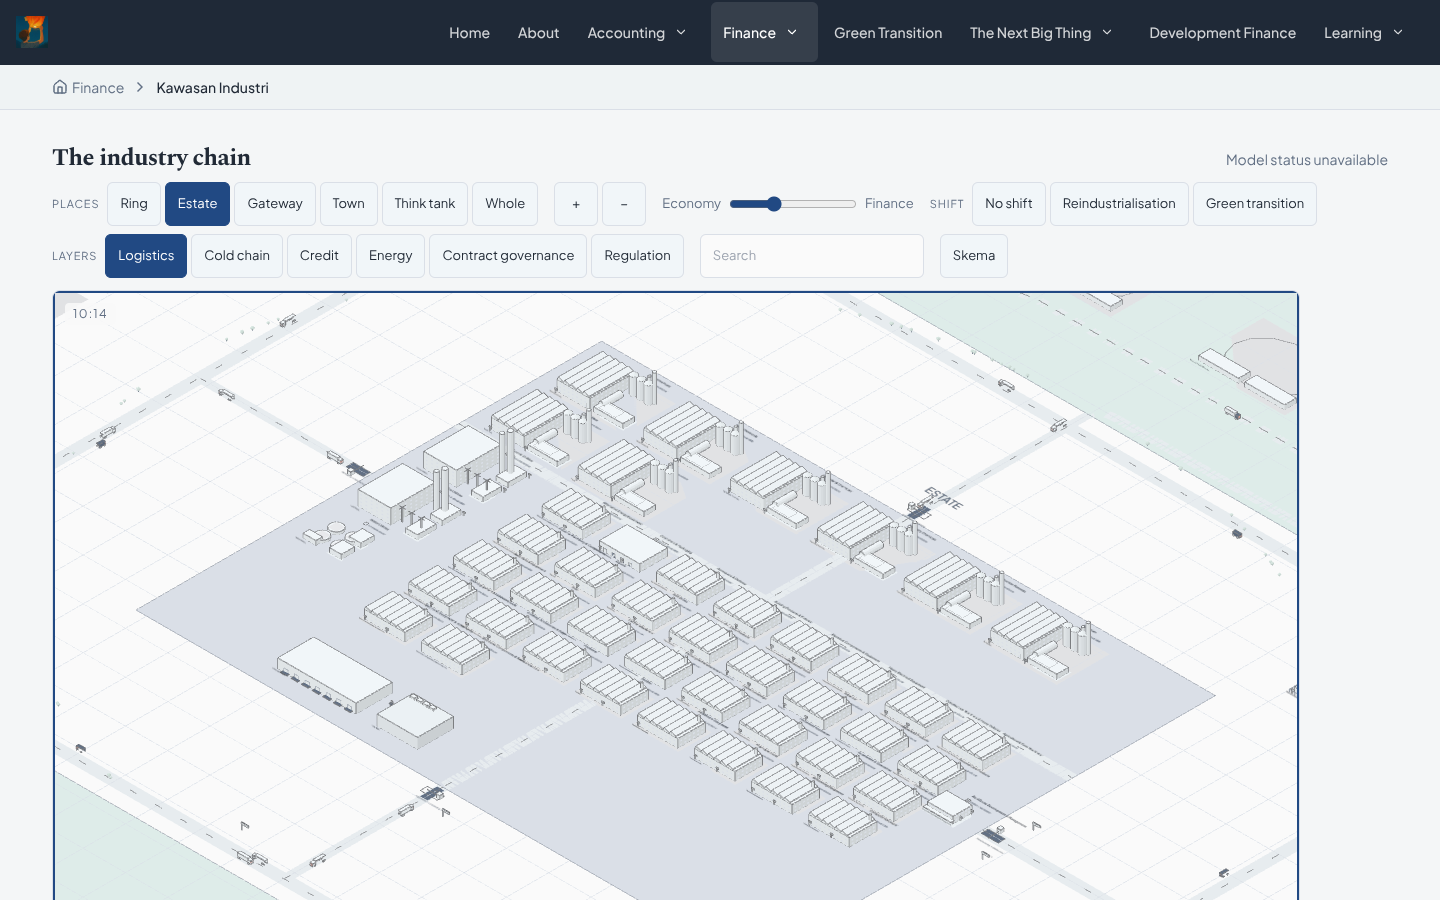
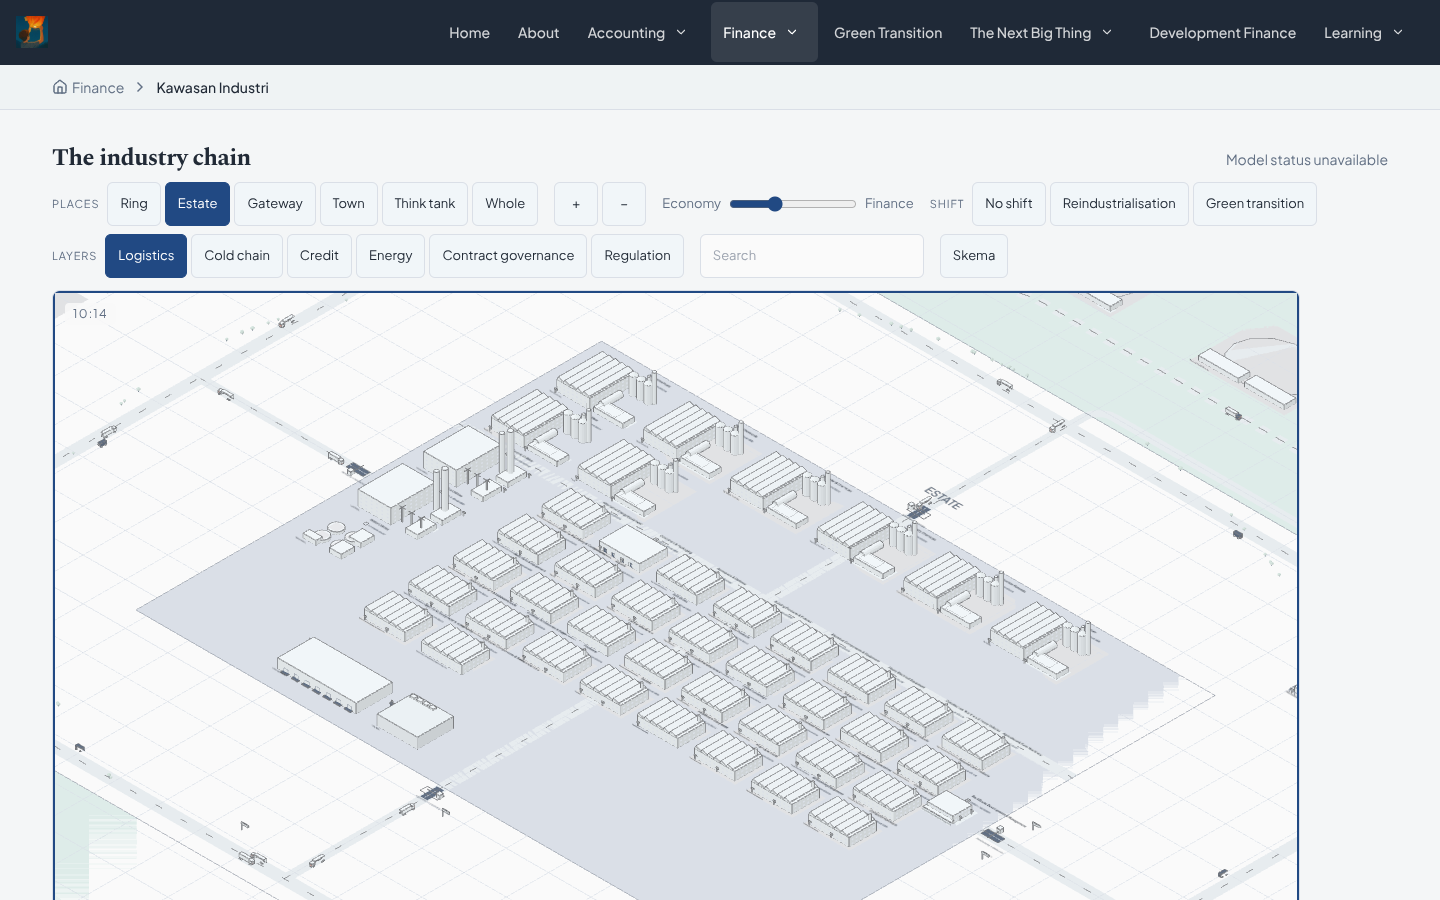
world: the probe counts only rendered movers, by kind
Two review findings on scripts/world/probe.mjs. A hidden mover's anchor
still projects, so walkers hidden by the LOD and reefers and coins hidden
by their layers were counted as visible and moving; the debug API gains
visible(id), effective render visibility up the parent chain, and the
probe filters on it. One mixed set of walkers, coins, forklifts and trucks
fed both the count and the figure labelled truck speed; the probe now
reports vehicles, walkers and coins separately and takes the truck speed
from TRUCK-* only.

The baseline is re-run: at the home view 47 of 47 rendered vehicles are
on screen and moving, at 2.1 px/s and 5 px long. The plan, the PRD and the
prompt now state the liveliness criterion as size and speed, not count,
since the count already passes.

Claude-Session: https://claude.ai/code/session_015n1SoBQCwkT1bvc7rctzRJ

diff --git a/src/world/engine/create.ts b/src/world/engine/create.ts
@@ -43,6 +43,8 @@ interface DebugApi {
   distance(): number;
   /** The camera's zoom, in screen pixels per metre (scripts/world/probe.mjs reads it). */
   zoom(): number;
+  /** Whether an entity's first group is rendered: it and every ancestor visible (the LOD and the layers hide whole groups). */
+  visible(id: string): boolean;
   /** One frame of the view by hand (the camera easing, the LOD switch, the peeks), dt in seconds; tests drive it where no animation frame runs. */
   tick(dt: number): void;
   statuses(): Record<string, ModelStatus>;
@@ -206,6 +208,7 @@ export function createWorld(container: HTMLElement, options: WorldOptions): Worl
       drawCalls: () => view.drawCalls(),
       distance: () => view.distanceOf(),
       zoom: () => view.camera.zoom,
+      visible: (id) => { const e = find(id); const g = e?.groups[0]; if (!g) return false; for (let o: THREE.Object3D | null = g; o; o = o.parent) if (!o.visible) return false; return true; },
       tick: (dt) => tick(last + dt * 1000),
       statuses: () => Object.fromEntries(statuses),
       chain: () => chain.codes(),

diff --git a/docs/world/v2/PLAN.md b/docs/world/v2/PLAN.md
@@ -37,14 +37,17 @@ Measured on 9 October 2026 with `scripts/world/probe.mjs` (added by this plan) a
 build of `main` at `edc944a`, Chromium 1440 × 900, the stage 1,246 × 700 px, SwiftShader. Frames
 and the JSON are in `docs/world/frames/v1-probe/`.
 
-| view | px per metre | a 40 m block on screen | movers moving / visible | truck speed on screen | draw calls | click at INTP's anchor selects |
+| view | px per metre | a 40 m block on screen | vehicles rendered, on screen and moving | truck speed on screen | draw calls | click at INTP's anchor selects |
 |---|---|---|---|---|---|---|
-| home (`whole`) | 0.42 | 24 px | 68 / 122 | 2.3 px/s | 317 | the building B121 |
-| middle (`estate`) | 1.41 | 79 px | 32 / 32 | 25.3 px/s | 658 | the building B121 |
-| near (distance 1) | 15.98 | 904 px | 0 / 0 | 0 | 95 | the building B121 |
+| home (`whole`) | 0.42 | 24 px | 47 of 47 | 2.1 px/s | 317 | the building B121 |
+| middle (`estate`) | 1.39 | 78 px | 23 of 23 | 34 px/s | 648 | the building B121 |
+| near (distance 1) | 16.25 | 919 px | 0 of 0 | 0 | 95 | the building B121 |
 
-(SwiftShader renders at a few frames per second, so px/s understates a real GPU by roughly 3×;
-the ratio between views holds.)
+(Only rendered movers count: the LOD hides the walkers at the home view and the layers hide the
+reefers and coins. SwiftShader renders at a few frames per second, so px/s understates a real GPU
+by roughly 3×; the ratio between views holds. At the home view 47 vehicles are on screen, so the
+failure is not their number but their size and speed: a truck is 5 px long and moves two pixels a
+second.)
 
 ### 1.1 Root causes
 
@@ -106,7 +109,7 @@ v2 is alive when all of these hold on a laptop at the home view:
 | # | property | measure |
 |---|---|---|
 | L1 | Buildings read as buildings | a 40 m block is ≥ 60 px wide; silhouettes differ by family |
-| L2 | Motion is visible | ≥ 40 vehicles on screen moving at ≥ 8 px/s on a real GPU (≥ 3 px/s on the probe's SwiftShader) |
+| L2 | Motion is visible | ≥ 40 goods vehicles on screen, each ≥ 18 px long, moving at ≥ 8 px/s on a real GPU (≥ 3 px/s on the probe's SwiftShader) |
 | L3 | Motion has meaning | every goods vehicle has an origin building, a destination building and a load named after the link; it stops at the gate's weighbridge and at the destination's bay |
 | L4 | The chain can be seen | selecting any building animates its supplier and customer flows; dashes travel in the direction of the goods |
 | L5 | Everything points | hovering any company, building, vehicle, gate or fixture shows a pointer and a label; clicking it opens its card, at every distance |
@@ -180,7 +183,7 @@ for "lanjut").
 | gate | deliverable | exit criteria (measured) |
 |---|---|---|
 | **A. Scale, pointing, companies** | compacted layout; hero home view; ground and shading; hover label and pointer; company lots with signs; cards v2 for buildings and companies; poster re-rendered | probe home: ≥ 1.2 px/m, block ≥ 60 px; click at a company anchor selects the company at home, district and street; hover shows pointer + label within 150 ms; `Whole` ≥ 0.75 px/m; draw calls within budget; flag-off build identical |
-| **B. Flows** | road graph and routing; bays and driveways; the flows system (goods, returns, raw export by ship, rail shuttle, coins); goods classes and vehicle kinds; link register complete; vehicle cards | probe home: ≥ 40 vehicles on screen moving; every vehicle has origin, destination and load; no isolated building; a truck stops at a weighbridge; routes never cross lots; 300 live vehicles ≤ 1,300 draw calls at the district view |
+| **B. Flows** | road graph and routing; bays and driveways; the flows system (goods, returns, raw export by ship, rail shuttle, coins); goods classes and vehicle kinds; link register complete; vehicle cards | probe home: ≥ 40 vehicles on screen moving at ≥ 3 px/s, each ≥ 18 px; every vehicle has origin, destination and load; no isolated building; a truck stops at a weighbridge; routes never cross lots; 300 live vehicles ≤ 1,300 draw calls at the district view |
 | **C. Activity and night** | per-family activity; day cycle for all; lamps; published emphasis | every family shows motion at the district view (listed in the gate note with a frame each); night frame at 20:00 with every block lit; draw calls within budget |
 | **D. Chain, stories, follow** | flow-based chain highlight; story table and buttons; Follow mode; search over stories; phone layout for the strip | selecting any building animates its links; six stories light end to end; Follow completes a story in ≤ 90 s with a card at each stop; `F` follows a vehicle; Esc exits |
 | **E. Quality** | tests (unit, engine, browser), Lighthouse before/after, a11y pass, docs (report v2, decision log), NOTICE check | 1,062 unit tests + new ≥ 40; world browser suite ≥ 12 cases green; Lighthouse mobile LCP no worse than `main`; zero console errors after 600 simulated seconds; keyboard path covers companies, vehicles and stories |

diff --git a/docs/world/v2/PRD-kawasan-v2.md b/docs/world/v2/PRD-kawasan-v2.md
@@ -46,7 +46,7 @@ them, and nowhere else.
 |---|---|---|
 | px per metre at the home view | 0.42 | ≥ 1.2 |
 | a 40 m block at the home view | 24 px | ≥ 60 px |
-| vehicles on screen and moving at the home view | 68 (sub-pixel) | ≥ 40 at ≥ 8 px/s (real GPU) |
+| vehicles on screen and moving at the home view | 47, at 2 px/s and 5 px long | ≥ 40, each ≥ 18 px long, at ≥ 8 px/s (real GPU) |
 | click on a company's building selects | the sub-industry | the company, at every distance |
 | hover feedback | cursor only | pointer + label ≤ 150 ms |
 | vehicles with an origin and a destination | 0 of 122 | all goods vehicles |
@@ -54,7 +54,7 @@ them, and nowhere else.
 | families with visible activity at the district view | 2 (crane, forklifts) | all 44 |
 | buildings lit at night | published only (0) | all, published brighter |
 | stories a visitor can follow | 0 | 6 |
-| draw calls home / district / street | 317 / 658 / 95 | ≤ 900 / ≤ 1,300 / ≤ 1,600 |
+| draw calls home / district / street | 317 / 648 / 95 | ≤ 900 / ≤ 1,300 / ≤ 1,600 |
 | Lighthouse mobile LCP, flag on | ≈ 4.3 s (lab) | no worse |
 
 ## 3. The experience
@@ -352,7 +352,7 @@ All measured on a flag-on build; the probe's table is part of the gate note.
 
 **Flows (phase B)**
 - B1. Every goods vehicle has an origin lot, a destination lot and a load named after a link; `window.world.all()` reports them.
-- B2. At the home view ≥ 40 vehicles are on screen and moving.
+- B2. At the home view ≥ 40 goods vehicles are on screen and moving at ≥ 3 px/s on the probe (≥ 8 px/s on a real GPU), each ≥ 18 px long.
 - B3. A vehicle crossing a gate stops at the weighbridge; one arriving at a bay unloads.
 - B4. No placed sub-industry is isolated; every bay reaches every other bay (unit test on the graph).
 - B5. Ships call at the quays; the rail shuttle runs; the six returns run; coins run with the credit layer.

diff --git a/docs/world/v2/MEGA-PROMPT-kawasan-v2.md b/docs/world/v2/MEGA-PROMPT-kawasan-v2.md
@@ -254,8 +254,8 @@ Trailer lines as the repository's convention requires (see the session's attribu
 ## 11. Definition of done
 
 - PRD §7 A1–E5 all met, each with its evidence in a gate note.
-- `scripts/world/probe.mjs` at the home view: ≥ 1.2 px/m, block ≥ 60 px, ≥ 40 vehicles moving,
-  `clickResolves: company` at the three bands, hover pointer.
+- `scripts/world/probe.mjs` at the home view: ≥ 1.2 px/m, block ≥ 60 px, ≥ 40 vehicles rendered
+  and moving at ≥ 3 px/s, `clickResolves: company` at the three bands, hover pointer.
 - Unit suite green with ≥ 40 new tests; the world browser suite ≥ 12 cases green; `check:world`
   clean; flag-off build identical to `main`; Lighthouse no worse.
 - Six stories light; Follow completes one; every family moves; every block lights at night.
